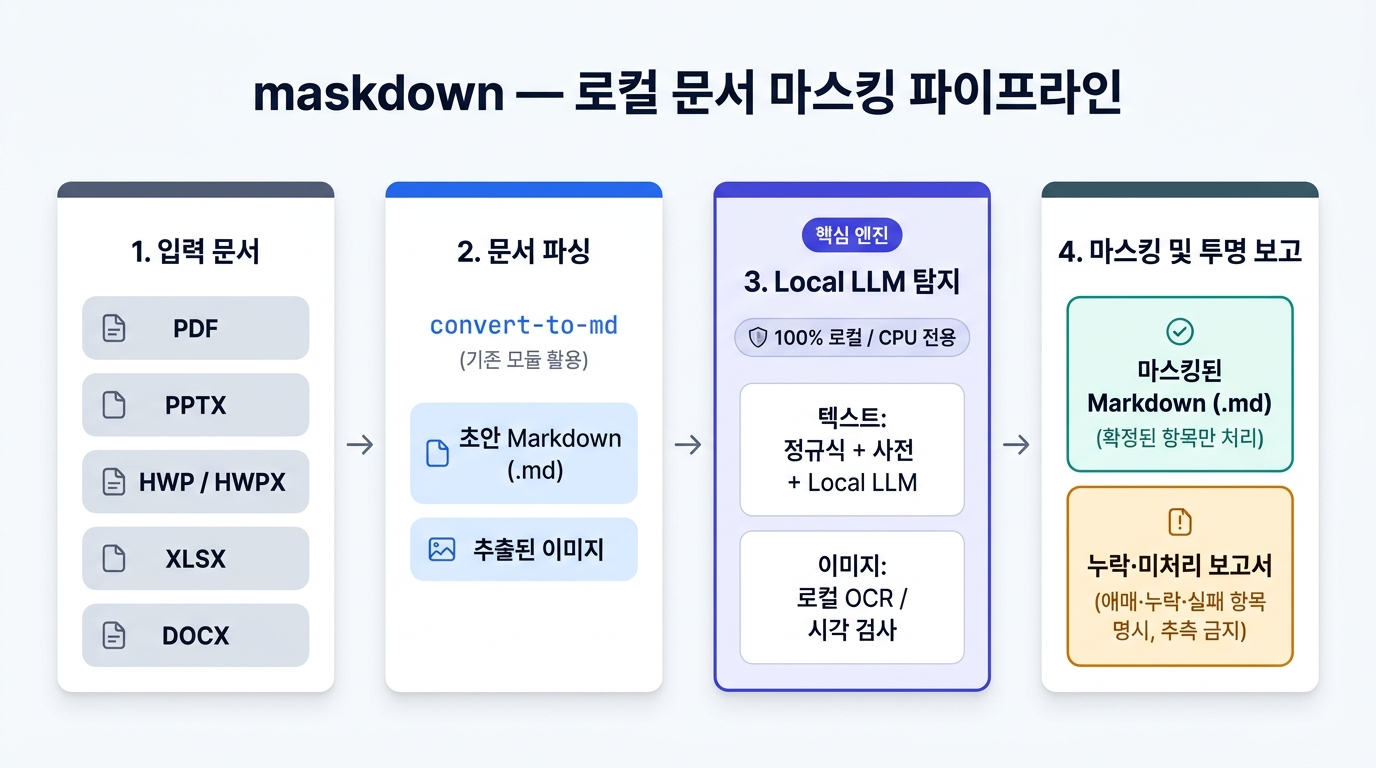
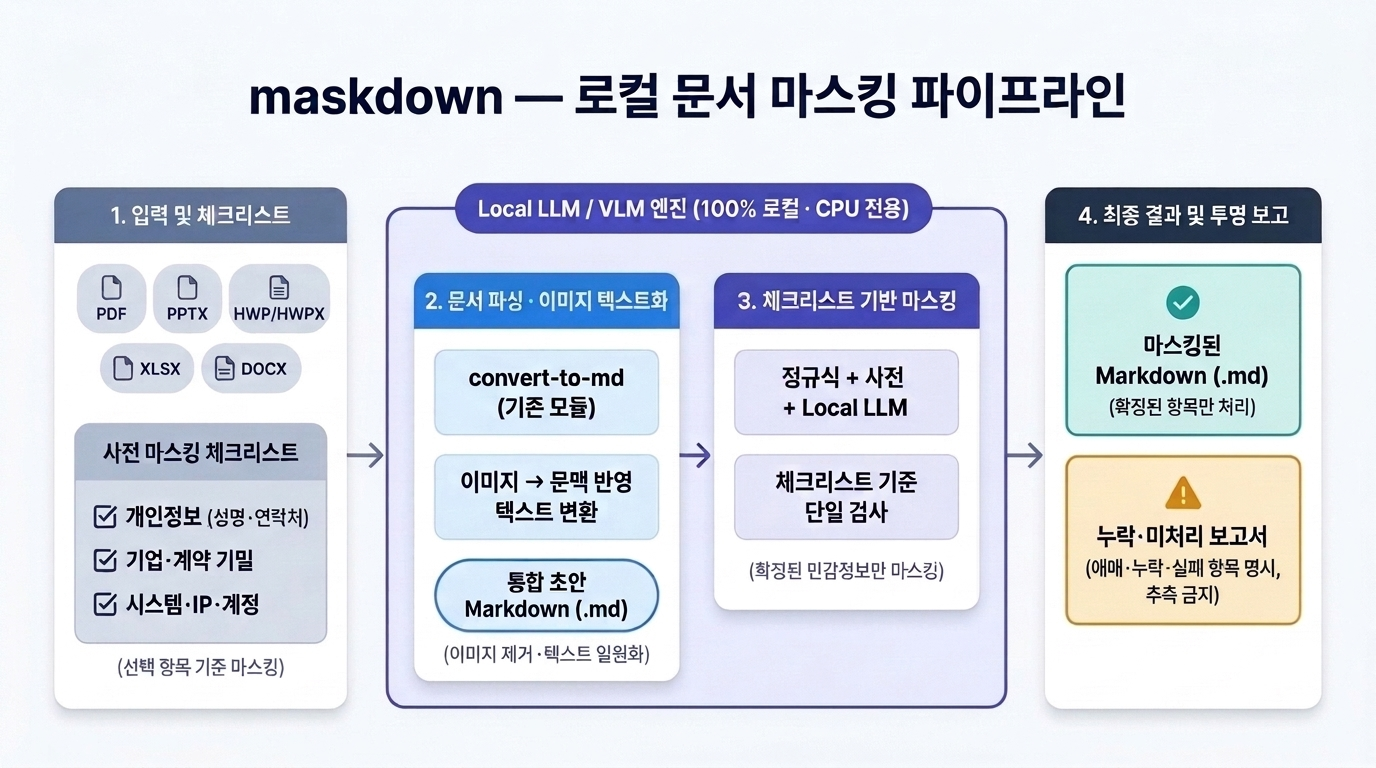
docs: update pipeline with unified Local LLM/VLM engine and pre-masking checklist

diff --git a/README.md b/README.md
@@ -15,11 +15,15 @@
 
 ![maskdown 처리 파이프라인](./docs/images/pipeline.jpg)
 
-* **문서 파싱**: 기존 `inzent_ax/Project/skill/convert-to-md`에 구현된 변환 로직을 재활용합니다.
-* **핵심 개발 범위**: 파싱 이후 단계인 **① 텍스트·이미지 속 중요 정보 탐지**와 **② 마스킹 방식 및 투명한 한계 보고**에 집중합니다.
+* **사전 마스킹 체크리스트 (1단계 · LLM 앞단)**:
+  * 문서를 투입하기 전, 사용자가 **이번 문서에서 어떤 유형의 정보(개인정보, 기업·계약 기밀, 시스템·IP·계정 등)를 마스킹할지 체크리스트로 사전 선택**합니다.
+  * 선택된 체크리스트 정책이 이후 Local LLM 마스킹 기준으로 그대로 전달됩니다.
+* **Local LLM / VLM 통합 엔진 (2~3단계)**:
+  1. **문서 파싱 · 이미지 텍스트화**: 기존 `inzent_ax/Project/skill/convert-to-md` 모듈로 문서 구조를 추출하고, 포함된 **이미지는 문맥을 반영한 텍스트로 변환해 통합 초안 Markdown(`.md`)에 합칩니다.** (텍스트 기반 모델에서 활용할 수 없는 원본 이미지는 제거해 텍스트로 일원화)
+  2. **체크리스트 기반 마스킹**: 이미지까지 텍스트로 통합되었으므로, 마스킹 단계에서는 **사전 체크리스트 기준에 맞춰 텍스트만 단일 파이프라인(정규식 + 사전 + Local LLM)으로 일관되게 검사·마스킹**합니다.
 * **투명한 실패·불확실성 보고 원칙 (추측 금지)**:
-  * AI가 억지로 추측해 잘못된 마스킹을 수행하지 않도록, **확신할 수 없는 항목·파싱/인식 실패 영역·누락 가능 구간은 처리하지 않고 "처리 불가 / 애매함"으로 명명백백히 보고**합니다.
-  * 최종 결과물은 **마스킹된 Markdown(`.md`)**과 함께 **애매·누락·미처리 항목 리포트**를 반드시 동반합니다.
+  * AI가 억지로 추측해 잘못된 마스킹을 수행하지 않도록, **확신할 수 없는 항목·이미지/문서 인식 실패 영역·누락 가능 구간은 처리하지 않고 "처리 불가 / 애매함"으로 명명백백히 보고**합니다.
+  * 최종 결과물은 **마스킹된 Markdown(`.md`)**과 함께 **애매·누락·미처리 항목 보고서**를 반드시 동반합니다.
 
 ---
 
@@ -28,7 +32,7 @@
 | 항목 | 구성 |
 | :--- | :--- |
 | **타깃 하드웨어** | 일반 업무용 PC (16GB RAM, GPU 없음 / CPU 전용) |
-| **로컬 런타임** | Python 3.12+, Ollama (3B~4B급 Q4 양자화 모델 기준) 또는 경량 ONNX 모델 |
+| **로컬 런타임** | Python 3.12+, Ollama (3B~4B급 Q4 양자화 VLM / LLM 기준) 또는 경량 ONNX 모델 |
 
 ---
 
@@ -36,26 +40,22 @@
 
 본격 구현 전, 팀원들과 아래 4가지 영역을 서칭하고 기준을 확정합니다.
 
-### ① 중요 정보(마스킹 대상) 범위 정의
-* **필수 대상**: 개인정보(성명, 연락처, 이메일, 주민번호 등) vs 기업·프로젝트 기밀(고객사명, 프로젝트명, 내부 IP/도메인, 시스템명, 계약 금액, 조직도 등)
+### ① 로컬 모델 선정 (가장 핵심)
+* **단일 멀티모달 모델(Local VLM) 통합 vs 역할 분리 비교** (16GB RAM / CPU 환경 벤치마크):
+  * **통합안**: 이미지 텍스트화 + 텍스트 마스킹을 단일 경량 VLM(`gemma3:4b`, `qwen2.5vl:3b` 등)으로 처리
+  * **분리안**: 이미지 텍스트화(경량 VLM 또는 로컬 OCR + LLM) + 텍스트 마스킹(경량 LLM `qwen2.5:3b`, `exaone3.5:2.4b` 또는 한국어 NER ONNX)
+* 문서당 허용 처리 시간, 메모리 점유율, 한국어 문맥 이해도 및 JSON 구조화 출력 안정성 검증
+
+### ② 사전 마스킹 체크리스트 및 대상 범위 설계
+* **체크리스트 항목 구성**: 개인정보(성명, 연락처, 이메일, 주민번호 등), 기업·프로젝트 기밀(고객사명, 프로젝트명, 계약 금액, 조직도 등), 시스템·인프라(내부 IP/도메인, 계정, 시스템명 등)의 프리셋·커스텀 선택 구조
 * **예외(화이트리스트)**: 공개 기술 용어, 일반 제품명, 마스킹하면 문맥이 망가지는 도메인 용어 기준
 
-### ② 텍스트 내 중요 정보 탐지 방식
-* **탐지 조합**: 규칙(정규식) + 고객사 사전 + 로컬 LLM/NER의 역할 분담
-* **로컬 모델 선정 (CPU 환경 벤치마크)**:
-  * 경량 로컬 LLM (`qwen2.5:3b`, `qwen3:4b`, `exaone3.5:2.4b` 등) — 문맥 이해 강점, JSON 추출 방식(원문 재작성 금지)
-  * 한국어 경량 NER 모델 (KLUE-RoBERTa / KoELECTRA ONNX 등) — 초고속·저메모리 강점
-* **성능 기준**: 누락 최소화(높은 재현율) vs 오탐 허용 범위, 문서당 허용 처리 시간
-
-### ③ 이미지 내 중요 정보 탐지 및 처리 방식
-* PDF·PPT·HWP·DOCX에 포함된 **캡처 화면, 아키텍처 도식, 조직도, 도장/서명, 스캔 페이지** 처리 전략 비교:
-  * **방안 A (제외)**: MD 변환 시 이미지를 일괄 제거하고 텍스트만 활용
-  * **방안 B (로컬 OCR)**: `RapidOCR` / `PaddleOCR` 등 CPU용 OCR로 이미지 내 텍스트를 추출해 마스킹
-  * **방안 C (이미지 마스킹)**: 민감 영역 좌표 탐지 후 블러/블랙박스 처리하여 이미지 유지
-* CPU 전용 환경에서의 OCR 정확도·속도 테스트 및 인식 실패 이미지의 미처리 보고 기준
+### ③ 이미지 → 문맥 반영 텍스트 변환 기준
+* PDF·PPT·HWP·DOCX 내 **화면 캡처, 아키텍처 도식, 조직도, 표 이미지, 스캔 페이지**를 텍스트로 변환할 때의 출력 포맷(요약 설명 vs 표·구조 재현)
+* 저해상도·깨짐 등으로 이미지 해석이 불가능할 때 추측하지 않고 **미처리 보고서로 넘기는 실패 기준**
 
 ### ④ 마스킹 방식 및 애매·누락 항목 보고 체계
-* **치환 포맷**: 문맥 유지를 위한 일관된 가명화 태그(`[고객사_1]`, `[담당자_1]`) vs 단순 마스킹(`***`)
-* **불확실·미처리 기준 (신뢰도·안전 실패 기준)**: AI가 임의로 처리하지 않고 **"못했다 / 확인 필요"**로 분류해 반환할 판단 기준(신뢰도 임계값, OCR 저품질, 표/이미지 깨짐 등)
-* **검수 리포트 포맷**: 치환 완료 목록과 별도로 **애매한 항목·누락 의심 구간·처리 실패 위치(페이지/문단/이미지)**를 명확히 분리해 출력하는 구조
+* **탐지 조합 및 치환 포맷**: 정규식 + 고객사 사전 + Local LLM 역할 분담, 일관된 가명화 태그(`[고객사_1]`, `[담당자_1]`) vs 단순 마스킹(`***`)
+* **불확실·미처리 기준 (신뢰도·안전 실패 기준)**: AI가 임의로 처리하지 않고 **"못했다 / 확인 필요"**로 분류해 반환할 판단 기준
+* **보고서 포맷**: 치환 완료 목록과 별도로 **애매한 항목·누락 의심 구간·처리 실패 위치(페이지/문단/이미지)**를 명확히 분리해 출력하는 구조
 * **메타데이터 정책**: PPT 발표자 노트, Excel 숨김 시트·메모, 문서 작성자 정보 처리 기준
